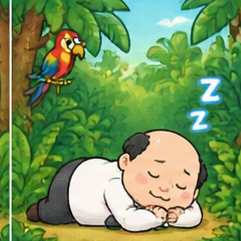
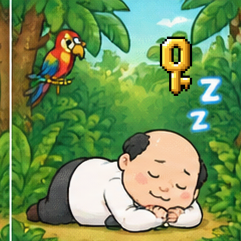
スロット閉じるボタンと鍵アイテムを追加

Changed region(s): [[0.639, 0.1452, 0.8133, 0.4066]]

diff --git a/app.js b/app.js
@@ -183,8 +183,8 @@ function runnerGame(){
   document.addEventListener('selectstart',runnerBlock,{passive:false});
   document.addEventListener('gesturestart',runnerBlock,{passive:false});
   function runnerBlock(event){event.preventDefault()}
-  let x=100,y=600,vy=0,scroll=0,cameraOffsetY=0,cameraZoom=1,raf=0,keys={left:false,right:false},ground=0,grounded=true,cameraMode='follow',cameraDrag=null,cameraFrom=0,cameraFromY=0,cameraStarted=0,pointers=new Map(),pinchDistance=0,pinchZoom=1;
-  const WORLD_WIDTH=5000,PLAYER_SIZE=200,NPC_X=2500,NPC_Y=600,NPC_W=240,NPC_H=320,levelImage=new Image(),visualImage=new Image(),catSprite=new Image(),npcSprite=new Image();levelImage.src='l1.png';visualImage.src='m1.png';catSprite.src='cat-sprites.png';npcSprite.src='salaryman-npc.png';
+  let x=100,y=600,vy=0,scroll=0,cameraOffsetY=0,cameraZoom=1,raf=0,keys={left:false,right:false},ground=0,grounded=true,hasKey=false,cameraMode='follow',cameraDrag=null,cameraFrom=0,cameraFromY=0,cameraStarted=0,pointers=new Map(),pinchDistance=0,pinchZoom=1;
+  const WORLD_WIDTH=5000,PLAYER_SIZE=200,NPC_X=2500,NPC_Y=600,NPC_W=240,NPC_H=320,levelImage=new Image(),visualImage=new Image(),catSprite=new Image(),npcSprite=new Image(),keySprite=new Image();levelImage.src='l1.png';visualImage.src='m1.png';catSprite.src='cat-sprites.png';npcSprite.src='salaryman-npc.png';keySprite.src='key.png';
   const platforms=[{x:0,w:900,y:0},{x:1040,w:420,y:0},{x:1640,w:520,y:0},{x:2340,w:620,y:0},{x:3160,w:760,y:0}];
   shell('ねこっぽいのゲーム',`<div class="runner-wrap"><canvas id="runnerCanvas"></canvas><div class="runner-hint">左右ボタン：移動　／　中央ボタン：ジャンプ</div><div class="runner-pad"><button data-dir="left">◀</button><button id="runnerJump">▲</button><button data-dir="right">▶</button></div></div>`,false);
   const canvas=document.querySelector('#runnerCanvas'),ctx=canvas.getContext('2d'),pad=document.querySelector('.runner-pad');
@@ -198,12 +198,12 @@ function runnerGame(){
   canvas.addEventListener('pointerup',e=>{pointers.delete(e.pointerId);if(cameraDrag&&!cameraDrag.moved){const rect=canvas.getBoundingClientRect(),sx=(e.clientX-rect.left)*700/rect.width/cameraZoom+scroll,sy=(e.clientY-rect.top)*1000/rect.height/cameraZoom,nx=NPC_X,ny=1000/cameraZoom-(NPC_Y-cameraOffsetY)-NPC_H;if(sx>=nx&&sx<=nx+NPC_W&&sy>=ny&&sy<=ny+NPC_H)openSlot()}cameraDrag=null});
   canvas.addEventListener('pointercancel',e=>{pointers.delete(e.pointerId);cameraDrag=null});
   pad.querySelectorAll('button').forEach(b=>{const d=b.dataset.dir;b.addEventListener('pointerdown',e=>{e.preventDefault();if(d)returnCamera();keys[d]=true;b.setPointerCapture(e.pointerId)});['pointerup','pointercancel','pointerleave'].forEach(t=>b.addEventListener(t,()=>keys[d]=false))});
-  function openSlot(){if(document.querySelector('#slotBubble'))return;const left=['おじさんが','ねこが','うんこが'],mid=['ジャングルで','トイレで','宇宙で'],right=['うんこする','溶ける','ねる'];let stopped=0;const showResult=(values)=>{const image=document.createElement('img');image.className='slot-result';image.alt=values.join('');image.src='slot-images/slot-'+values.join('-')+'.png';document.querySelector('#slotBubble').append(image)};const make=(items)=>{const b=document.createElement('button');b.className='slot-reel';let value=Math.floor(Math.random()*3);b.textContent=items[value];const timer=setInterval(()=>{value=Math.floor(Math.random()*3);b.textContent=items[value]},90);b.onclick=()=>{if(b.classList.contains('stopped'))return;clearInterval(timer);b.textContent=items[value];b.dataset.value=value;b.classList.add('stopped');stopped++;if(stopped===3){const reels=box.querySelectorAll('.slot-reel');showResult([reels[0].dataset.value,reels[1].dataset.value,reels[2].dataset.value])}};return b};const box=document.createElement('div');box.id='slotBubble';box.className='slot-bubble';box.innerHTML='<b>スロットを止めてね</b><div class="slot-reels"></div>';box.querySelector('.slot-reels').append(make(left),make(mid),make(right));document.querySelector('.runner-wrap').append(box)}
+  function openSlot(){if(document.querySelector('#slotBubble'))return;const left=['おじさんが','ねこが','うんこが'],mid=['ジャングルで','トイレで','宇宙で'],right=['うんこする','溶ける','ねる'],keyCombos=new Set(['0-0-0','0-0-1','0-0-2','0-1-0','0-1-1','0-1-2','0-2-0','0-2-1','0-2-2','1-0-0']);let stopped=0;const showResult=(values)=>{const key=values.join('-'),image=document.createElement('img');image.className='slot-result';image.alt=values.join('');image.src='slot-images/slot-'+key+'.png';document.querySelector('#slotBubble').append(image);if(keyCombos.has(key)){hasKey=true;document.querySelector('#slotBubble').insertAdjacentHTML('beforeend','<p class="key-get">🔑 ネコが鍵を手に入れた！</p>')}};const make=(items)=>{const b=document.createElement('button');b.className='slot-reel';let value=Math.floor(Math.random()*3);b.textContent=items[value];const timer=setInterval(()=>{value=Math.floor(Math.random()*3);b.textContent=items[value]},90);b.onclick=()=>{if(b.classList.contains('stopped'))return;clearInterval(timer);b.textContent=items[value];b.dataset.value=value;b.classList.add('stopped');stopped++;if(stopped===3){const reels=box.querySelectorAll('.slot-reel');showResult([reels[0].dataset.value,reels[1].dataset.value,reels[2].dataset.value])}};return b};const box=document.createElement('div');box.id='slotBubble';box.className='slot-bubble';box.innerHTML='<button class="slot-close" aria-label="閉じる">×</button><b>スロットを止めてね</b><div class="slot-reels"></div>';box.querySelector('.slot-close').onclick=()=>box.remove();box.querySelector('.slot-reels').append(make(left),make(mid),make(right));document.querySelector('.runner-wrap').append(box)}
   const mapScale=()=>WORLD_WIDTH/(levelImage.naturalWidth||1600),mapHeight=()=>levelImage.naturalHeight*mapScale();
   const canStand=(wx,worldY)=>{if(!levelImage.complete||!levelImage.naturalWidth)return true;const px=Math.floor(wx/mapScale()),py=Math.floor(worldY/mapScale());if(px<0||py<0||px>=levelImage.naturalWidth||py>=levelImage.naturalHeight)return false;const c=document.createElement('canvas');c.width=c.height=1;const q=c.getContext('2d');q.drawImage(levelImage,px,py,1,1,0,0,1,1);return q.getImageData(0,0,1,1).data[0]>200};
   const canMoveAt=(wx,worldY)=>canStand(wx-PLAYER_SIZE/2+8,worldY)&&canStand(wx+PLAYER_SIZE/2-8,worldY);
   const canPassBody=(wx,baseY)=>{const top=mapHeight()-(baseY+PLAYER_SIZE)+18,mid=mapHeight()-baseY-PLAYER_SIZE/2,bottom=mapHeight()-baseY-22;return canMoveAt(wx,top)&&canMoveAt(wx,mid)&&canMoveAt(wx,bottom)};
-  const draw=()=>{const w=canvas.width/devicePixelRatio,h=canvas.height/devicePixelRatio;ctx.setTransform(devicePixelRatio,0,0,devicePixelRatio,0,0);ctx.fillStyle='#b9efff';ctx.fillRect(0,0,w,h);const z=cameraZoom,mh=mapHeight(),followY=Math.max(0,Math.min(mh-h/z,y-350)),cameraY=cameraMode==='free'?cameraOffsetY:followY;ctx.drawImage(visualImage.complete?visualImage:levelImage,-scroll*z,h-mh*z+cameraY*z,WORLD_WIDTH*z,mh*z);if(npcSprite.complete){const npcFrame=Math.floor(performance.now()/900)%4;ctx.drawImage(npcSprite,npcFrame*512,0,512,684,(NPC_X-scroll)*z,h-(NPC_Y-cameraY)*z-NPC_H*z,NPC_W*z,NPC_H*z)}const moving=keys.left||keys.right,row=!grounded?3:moving?2:0,frame=Math.floor(performance.now()/140)%4;if(catSprite.complete){const px=(x-scroll)*z,py=h-(y-cameraY)*z-PLAYER_SIZE*z;ctx.save();if(keys.left){ctx.translate(px+PLAYER_SIZE*z,py);ctx.scale(-1,1);ctx.drawImage(catSprite,frame*320,row*320,320,320,0,0,PLAYER_SIZE*z,PLAYER_SIZE*z)}else ctx.drawImage(catSprite,frame*320,row*320,320,320,px,py,PLAYER_SIZE*z,PLAYER_SIZE*z);ctx.restore()}};
+  const draw=()=>{const w=canvas.width/devicePixelRatio,h=canvas.height/devicePixelRatio;ctx.setTransform(devicePixelRatio,0,0,devicePixelRatio,0,0);ctx.fillStyle='#b9efff';ctx.fillRect(0,0,w,h);const z=cameraZoom,mh=mapHeight(),followY=Math.max(0,Math.min(mh-h/z,y-350)),cameraY=cameraMode==='free'?cameraOffsetY:followY;ctx.drawImage(visualImage.complete?visualImage:levelImage,-scroll*z,h-mh*z+cameraY*z,WORLD_WIDTH*z,mh*z);if(npcSprite.complete){const npcFrame=Math.floor(performance.now()/900)%4;ctx.drawImage(npcSprite,npcFrame*512,0,512,684,(NPC_X-scroll)*z,h-(NPC_Y-cameraY)*z-NPC_H*z,NPC_W*z,NPC_H*z)}const moving=keys.left||keys.right,row=!grounded?3:moving?2:0,frame=Math.floor(performance.now()/140)%4;if(catSprite.complete){const px=(x-scroll)*z,py=h-(y-cameraY)*z-PLAYER_SIZE*z;ctx.save();if(keys.left){ctx.translate(px+PLAYER_SIZE*z,py);ctx.scale(-1,1);ctx.drawImage(catSprite,frame*320,row*320,320,320,0,0,PLAYER_SIZE*z,PLAYER_SIZE*z)}else ctx.drawImage(catSprite,frame*320,row*320,320,320,px,py,PLAYER_SIZE*z,PLAYER_SIZE*z);ctx.restore();if(hasKey&&keySprite.complete)ctx.drawImage(keySprite,px+(keys.left?30:130)*z,py+110*z,55*z,55*z)}};
   const tick=()=>{const speed=(keys.right?9:0)-(keys.left?9:0),nextX=Math.max(0,Math.min(WORLD_WIDTH-PLAYER_SIZE,x+speed));if(speed&&canPassBody(nextX+PLAYER_SIZE/2,y)){let targetY=y;for(let step=0;step<=140;step+=4){if(canMoveAt(nextX+PLAYER_SIZE/2,mapHeight()-(y+step)-2)){targetY=y+step;break}}if(targetY===y&&canMoveAt(nextX+PLAYER_SIZE/2,mapHeight()-Math.max(0,y-140)-2)){for(let step=4;step<=140;step+=4)if(canMoveAt(nextX+PLAYER_SIZE/2,mapHeight()-(y-step)-2)){targetY=y-step;break}}x=nextX;if(Math.abs(targetY-y)>2)y+=Math.max(-20,Math.min(20,targetY-y))}const belowIsBlack=!canMoveAt(x+PLAYER_SIZE/2,mapHeight()-y-2);if(vy<=0&&belowIsBlack)grounded=true;const nextY=y+vy,ceilingHit=vy>0&&!canMoveAt(x+PLAYER_SIZE/2,mapHeight()-(nextY+PLAYER_SIZE)+2),floorHit=vy<0&&!canMoveAt(x+PLAYER_SIZE/2,mapHeight()-nextY-2);if(ceilingHit){vy=0;grounded=false}else if(floorHit){vy=0;grounded=true}else{y=nextY;if(vy>0)grounded=false}if(y<0){y=0;vy=0;grounded=true}vy-=1.1;const viewW=700/cameraZoom;if(cameraMode==='follow')scroll=Math.max(0,Math.min(WORLD_WIDTH-viewW,x-84));else if(cameraMode==='return'){const p=Math.min(1,(performance.now()-cameraStarted)/500),ease=p*p*(3-2*p),target=Math.max(0,Math.min(WORLD_WIDTH-viewW,x-84)),targetY=Math.max(0,Math.min(mapHeight()-1000/cameraZoom,y-350));scroll=cameraFrom+(target-cameraFrom)*ease;cameraOffsetY=cameraFromY+(targetY-cameraFromY)*ease;if(p>=1)cameraMode='follow'}draw();raf=requestAnimationFrame(tick)};
   const startRunner=()=>{x=100;y=600;vy=0;grounded=true;tick()};
   if(levelImage.complete&&levelImage.naturalWidth)startRunner();else levelImage.onload=startRunner;

diff --git a/visual.css b/visual.css
@@ -54,3 +54,4 @@
 .runner-pad button:active{transform:translateY(3px);background:#f06aa8;color:#fff}
 .slot-bubble{position:absolute;z-index:20;left:50%;top:42%;transform:translate(-50%,-50%);width:min(92%,620px);padding:24px 14px;background:#fffaf0;border:5px solid #24123d;border-radius:28px;box-shadow:0 8px 0 #24123d;color:#24123d;text-align:center;font-size:24px}.slot-bubble:after{content:'';position:absolute;bottom:-28px;left:48%;border:14px solid transparent;border-top-color:#24123d}.slot-reels{display:grid;grid-template-columns:repeat(3,1fr);gap:8px;margin-top:18px}.slot-reel{min-height:84px;padding:8px 4px;border:3px solid #d7b62c;border-radius:12px;background:#fff;color:#24123d;font:inherit;font-size:clamp(16px,4vw,24px);font-weight:900;cursor:pointer}.slot-reel:not(.stopped){animation:slotShake .12s linear infinite alternate}.slot-reel.stopped{background:#f4cf67}@keyframes slotShake{to{transform:translateY(3px)}}
 .slot-result{display:block;width:min(100%,520px);max-height:280px;object-fit:cover;margin:16px auto 0;border:3px solid #24123d;border-radius:14px}
+.slot-close{position:absolute;right:10px;top:8px;width:42px;height:42px;border:3px solid #24123d;border-radius:50%;background:#f06aa8;color:#fff;font-size:30px;font-weight:900;line-height:1}.key-get{margin:10px 0 0;color:#b57900;font-weight:900}
